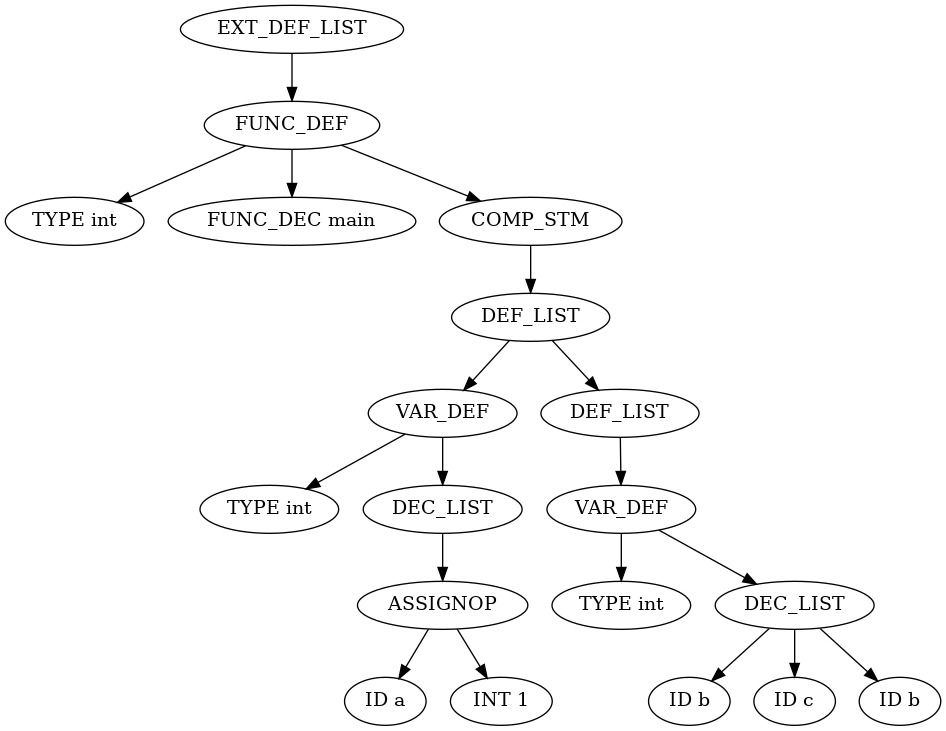
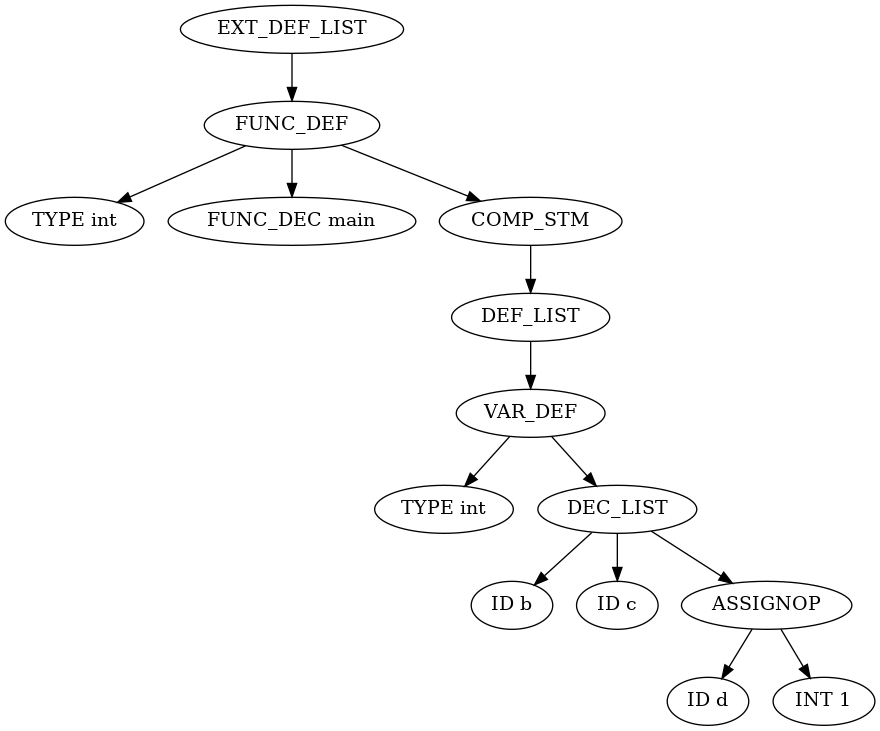
改了个小bug，变量初始化的

diff --git a/option.c b/option.c
@@ -179,11 +179,11 @@ void display(struct node *T,char * fkind)//生成.gv文件
                 else if (T0->ptr[0]->kind == ASSIGNOP)
                 {
                     //显示初始化表达式
-                    display(T->ptr[0],a);
+                    display(T0->ptr[0],a);
                 }
                 else if (T0->ptr[0]->kind == Array)
                 {
-                    display(T->ptr[0],a);
+                    display(T0->ptr[0],a);
                 }
                 T0 = T0->ptr[1];
             }

diff --git a/main.c b/main.c
@@ -26,8 +26,8 @@ int main(int argc, char *argv[])
     //     return 0;
     // }
 
-    yyin=fopen(argv[1],"r");
-    // yyin=fopen("./test/while2.c","r");//调试用
+    // yyin=fopen(argv[1],"r");
+    yyin=fopen("./test/chushihua.c","r");//调试用
 	if (!yyin) 
     {
         return 0;

diff --git a/test/chushihua.c b/test/chushihua.c
@@ -1,5 +1,4 @@
 int main()
 {
-    int a=1;
     int b,c,d=1;
 }
